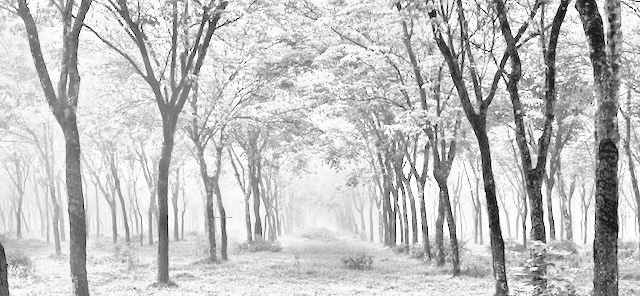
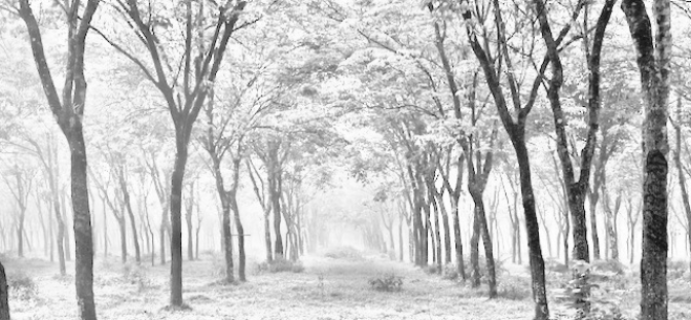
レイアウト変更

diff --git a/app/assets/stylesheets/application.scss b/app/assets/stylesheets/application.scss
@@ -29,7 +29,7 @@ h4 {
 
 .about-image {
 	height: 400px;
-	background-image: url(CAKE.jpg);
+	background-image: url(CAKE4.jpg);
 	background-repeat: no-repeat;
 
 }
@@ -41,7 +41,7 @@ h4 {
 }
 
 body {
-	background-image: url(森.jpg);
+	background-image: url(森2.jpg);
 	background-attachment: fixed;
 	background-repeat: no-repeat;
 	background-size: contain;
@@ -51,7 +51,6 @@ body {
 
 .top-image {
 	height: 400px;
-	background-image: url(coffee.jpg);
 	background-repeat: no-repeat;
 }
 
